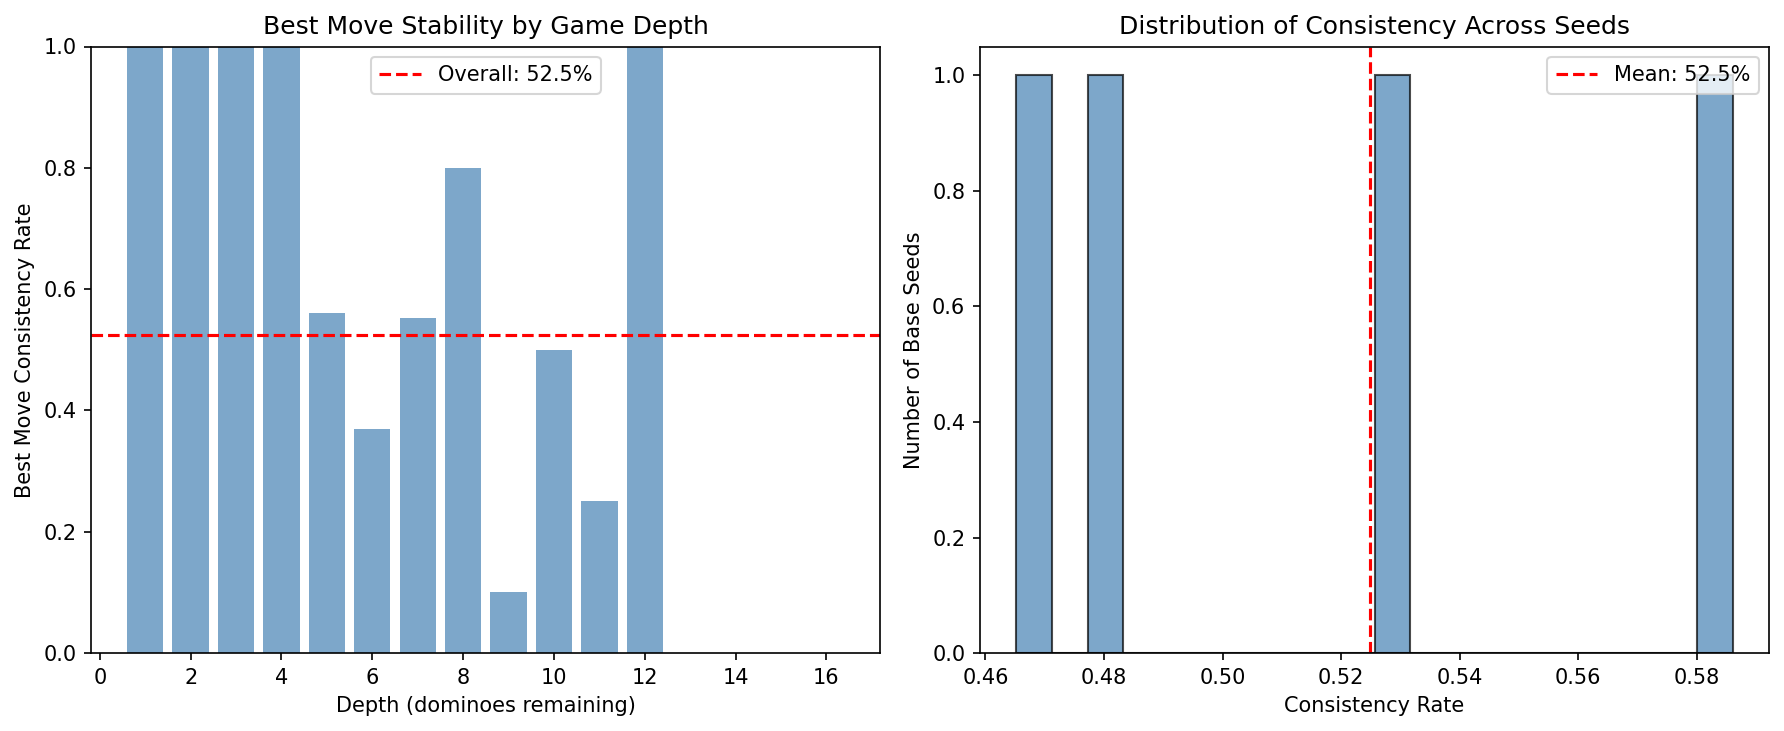
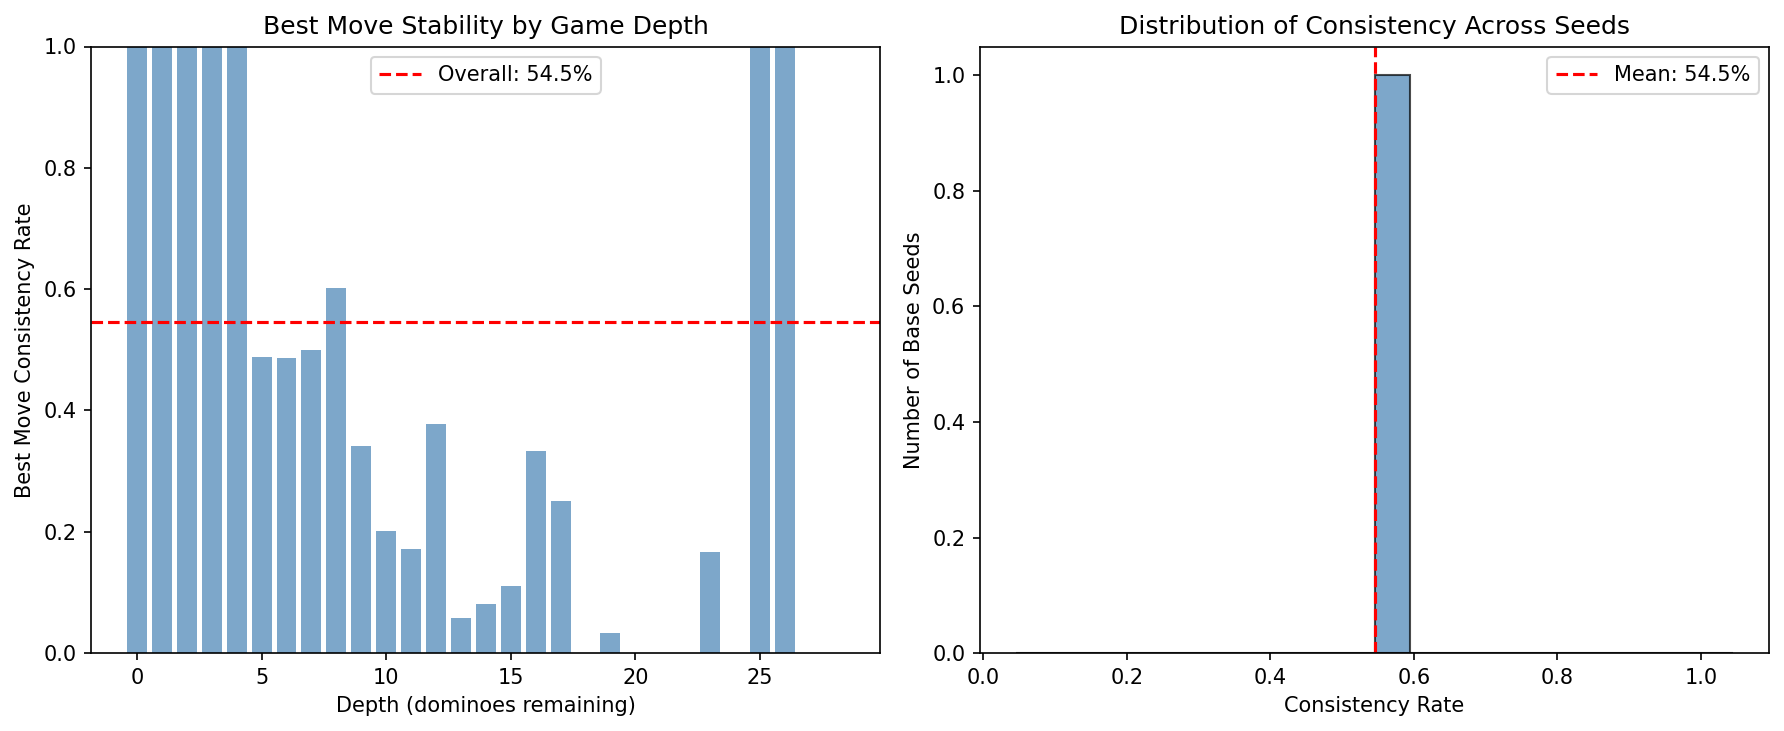
bd sync: 2026-01-06 23:13:26

diff --git a/forge/analysis/notebooks/11_imperfect_info/run_11c.py b/forge/analysis/notebooks/11_imperfect_info/run_11c.py
@@ -1,11 +1,11 @@
 #!/usr/bin/env python3
 """
-11c: Best Move Stability Analysis
+11c: Best Move Stability Analysis (Memory-Efficient Serial Version)
 
 Question: Does optimal move change with opponent hands?
 Method: % of positions where argmax(Q) is constant across opponent configs
 
-Uses marginalized data where P0's hand is fixed but opponents' cards vary.
+Processes one base_seed at a time, loading only necessary data.
 """
 
 import sys
@@ -18,86 +18,93 @@ from pathlib import Path
 from collections import defaultdict
 from tqdm import tqdm
 
-from forge.analysis.utils import loading, features
-from forge.oracle import schema
+import pyarrow.parquet as pq
+
+from forge.analysis.utils import features
 
 DATA_DIR = Path("/mnt/d/shards-marginalized/train")
 RESULTS_DIR = Path("/home/jason/v2/mk5-tailwind/forge/analysis/results")
-N_BASE_SEEDS = 201  # Analyze all available base seeds
-MAX_STATES_PER_SHARD = 1_000_000  # Sample if larger (increased to get more common states)
-np.random.seed(42)  # For reproducibility
+
+# Skip shards larger than this
+MAX_ROWS = 8_000_000
 
 
 def get_best_move(q_values: np.ndarray) -> np.ndarray:
     """Get argmax(Q) for each state, handling illegals."""
     ILLEGAL = -128
-    # Replace illegal with very negative for argmax
     q_for_max = np.where(q_values != ILLEGAL, q_values, -1000)
     return np.argmax(q_for_max, axis=1)
 
 
-def analyze_stability_for_base_seed(base_seed: int) -> dict | None:
-    """Analyze best move stability across 3 opponent configs for one base seed.
-
-    Memory-optimized: load one shard at a time, build minimal mappings.
-    """
+def analyze_base_seed(base_seed: int) -> dict | None:
+    """Analyze one base seed by loading 3 configs sequentially."""
     decl_id = base_seed % 10
 
-    # First pass: get states and best moves for each config, one at a time
-    state_to_best = [{}, {}, {}]
-    states_set = [set(), set(), set()]
-
+    # First: collect states from all 3 configs to find common ones
+    all_states = []
     for opp_seed in range(3):
         path = DATA_DIR / f"seed_{base_seed:08d}_opp{opp_seed}_decl_{decl_id}.parquet"
         if not path.exists():
             return None
+
         try:
-            df, _, _ = schema.load_file(path)
-            # Skip very large files
-            if len(df) > 20_000_000:
-                del df
+            # Just read the state column to find common states
+            table = pq.read_table(path, columns=['state'])
+            if table.num_rows > MAX_ROWS:
+                del table
                 gc.collect()
                 return None
 
-            # Extract only what we need, with sampling for large shards
-            n_rows = len(df)
-            if n_rows > MAX_STATES_PER_SHARD:
-                # Sample randomly
-                indices = np.random.choice(n_rows, MAX_STATES_PER_SHARD, replace=False)
-                states = df['state'].values[indices]
-                q_cols = ['q0', 'q1', 'q2', 'q3', 'q4', 'q5', 'q6']
-                q_values = df[q_cols].values[indices].astype(np.int16)
-            else:
-                states = df['state'].values
-                q_cols = ['q0', 'q1', 'q2', 'q3', 'q4', 'q5', 'q6']
-                q_values = df[q_cols].values.astype(np.int16)
-
-            best_moves = get_best_move(q_values)
-            state_to_best[opp_seed] = dict(zip(states, best_moves))
-            states_set[opp_seed] = set(states)
-
-            # Also save depths from first config
-            if opp_seed == 0:
-                depths = features.depth(states)
-                state_to_depth = dict(zip(states, depths))
-
-            del df, states, q_values, best_moves
+            states = set(table.column('state').to_numpy())
+            all_states.append(states)
+            del table
             gc.collect()
 
         except Exception as e:
-            print(f"Error loading {path}: {e}")
             gc.collect()
             return None
 
     # Find common states
-    common_states = states_set[0] & states_set[1] & states_set[2]
-
-    # Free memory
-    del states_set
+    common_states = all_states[0] & all_states[1] & all_states[2]
+    del all_states
     gc.collect()
 
     if len(common_states) == 0:
         return None
+
+    # Now reload each config and get best moves only for common states
+    state_to_best = [{}, {}, {}]
+    state_to_depth = {}
+
+    for opp_seed in range(3):
+        path = DATA_DIR / f"seed_{base_seed:08d}_opp{opp_seed}_decl_{decl_id}.parquet"
+        table = pq.read_table(path, columns=['state', 'q0', 'q1', 'q2', 'q3', 'q4', 'q5', 'q6'])
+
+        states = table.column('state').to_numpy()
+        q_cols = ['q0', 'q1', 'q2', 'q3', 'q4', 'q5', 'q6']
+        q_values = np.column_stack([table.column(c).to_numpy() for c in q_cols]).astype(np.int16)
+        del table
+        gc.collect()
+
+        # Filter to common states only
+        mask = np.isin(states, np.array(list(common_states)))
+        common_indices = np.where(mask)[0]
+
+        if len(common_indices) == 0:
+            continue
+
+        common_states_arr = states[common_indices]
+        common_q = q_values[common_indices]
+
+        best_moves = get_best_move(common_q)
+        state_to_best[opp_seed] = dict(zip(common_states_arr, best_moves))
+
+        if opp_seed == 0:
+            depths = features.depth(common_states_arr)
+            state_to_depth = dict(zip(common_states_arr, depths))
+
+        del states, q_values, common_states_arr, common_q, best_moves
+        gc.collect()
 
     # Check consistency
     n_consistent = 0
@@ -115,14 +122,12 @@ def analyze_stability_for_base_seed(base_seed: int) -> dict | None:
             if is_consistent:
                 n_consistent += 1
 
-            # Track by depth
             d = state_to_depth.get(state, -1)
             if d >= 0:
                 depth_consistency[d]['total'] += 1
                 if is_consistent:
                     depth_consistency[d]['consistent'] += 1
 
-    # Cleanup
     del state_to_best, common_states, state_to_depth
     gc.collect()
 
@@ -144,24 +149,17 @@ def main():
     print("BEST MOVE STABILITY ANALYSIS")
     print("=" * 60)
 
-    # Get available base seeds
+    # Get base seeds
     files = sorted(DATA_DIR.glob("seed_*_opp0_decl_*.parquet"))
-    base_seeds = []
-    for f in files:
-        parts = f.stem.split('_')
-        base_seed = int(parts[1])
-        base_seeds.append(base_seed)
+    base_seeds = [int(f.stem.split('_')[1]) for f in files]
+    print(f"Total base seeds: {len(base_seeds)}")
 
-    print(f"Total base seeds available: {len(base_seeds)}")
-    sample_seeds = base_seeds[:N_BASE_SEEDS]
-    print(f"Analyzing {len(sample_seeds)} base seeds...")
-
-    # Analyze each base seed
+    # Analyze serially
     all_results = []
     depth_agg = defaultdict(lambda: {'consistent': 0, 'total': 0})
 
-    for base_seed in tqdm(sample_seeds, desc="Processing"):
-        result = analyze_stability_for_base_seed(base_seed)
+    for base_seed in tqdm(base_seeds, desc="Analyzing"):
+        result = analyze_base_seed(base_seed)
         if result:
             all_results.append({
                 'base_seed': result['base_seed'],
@@ -170,17 +168,19 @@ def main():
                 'n_consistent': result['n_consistent'],
                 'consistency_rate': result['consistency_rate']
             })
-
-            # Aggregate depth consistency
             for d, counts in result['depth_consistency'].items():
                 depth_agg[d]['consistent'] += counts['consistent']
                 depth_agg[d]['total'] += counts['total']
 
-    print(f"\n✓ Analyzed {len(all_results)} base seeds")
+    print(f"\n✓ Analyzed {len(all_results)} base seeds with common states")
 
-    # Build DataFrames
+    if len(all_results) == 0:
+        print("No common states found - different opponent configs lead to different game trees")
+        return
+
     df = pd.DataFrame(all_results)
 
+    # Statistics
     print("\n" + "=" * 60)
     print("OVERALL STATISTICS")
     print("=" * 60)
@@ -203,14 +203,9 @@ def main():
         'n_consistent': 'sum'
     })
     decl_stats['rate'] = decl_stats['n_consistent'] / decl_stats['n_common_states']
-    decl_stats = decl_stats.round(3)
-    print(decl_stats.to_string())
+    print(decl_stats.round(3).to_string())
 
     # By depth
-    print("\n" + "=" * 60)
-    print("CONSISTENCY BY DEPTH")
-    print("=" * 60)
-
     depth_data = []
     for d in sorted(depth_agg.keys()):
         counts = depth_agg[d]
@@ -221,29 +216,20 @@ def main():
             'n_consistent': counts['consistent'],
             'consistency_rate': rate
         })
-
     depth_df = pd.DataFrame(depth_data)
-    print("\nConsistency by depth (dominoes remaining):")
+
+    print("\n" + "=" * 60)
+    print("CONSISTENCY BY DEPTH")
+    print("=" * 60)
     print(depth_df.to_string(index=False))
 
     # Save results
-    print("\n" + "=" * 60)
-    print("SAVING RESULTS")
-    print("=" * 60)
-
-    RESULTS_DIR.mkdir(parents=True, exist_ok=True)
     tables_dir = RESULTS_DIR / "tables"
-    tables_dir.mkdir(exist_ok=True)
+    tables_dir.mkdir(parents=True, exist_ok=True)
 
-    # Save overall results
     df.to_csv(tables_dir / "11c_best_move_stability_by_seed.csv", index=False)
-    print("✓ Saved per-seed results")
-
-    # Save depth breakdown
     depth_df.to_csv(tables_dir / "11c_stability_by_depth.csv", index=False)
-    print("✓ Saved depth breakdown")
 
-    # Save summary
     summary = pd.DataFrame([{
         'metric': 'overall_consistency',
         'value': overall_rate,
@@ -251,18 +237,13 @@ def main():
         'n_consistent': total_consistent
     }])
     summary.to_csv(tables_dir / "11c_stability_summary.csv", index=False)
-    print("✓ Saved summary")
+    print("\n✓ Saved all tables")
 
-    # Create visualization
-    print("\n" + "=" * 60)
-    print("CREATING VISUALIZATION")
-    print("=" * 60)
-
+    # Visualization
     import matplotlib.pyplot as plt
 
     fig, axes = plt.subplots(1, 2, figsize=(12, 5))
 
-    # Left: Consistency by depth
     ax1 = axes[0]
     ax1.bar(depth_df['depth'], depth_df['consistency_rate'], color='steelblue', alpha=0.7)
     ax1.axhline(y=overall_rate, color='red', linestyle='--', label=f'Overall: {overall_rate:.1%}')
@@ -272,7 +253,6 @@ def main():
     ax1.legend()
     ax1.set_ylim(0, 1)
 
-    # Right: Histogram of per-seed consistency
     ax2 = axes[1]
     ax2.hist(df['consistency_rate'], bins=20, color='steelblue', alpha=0.7, edgecolor='black')
     ax2.axvline(x=overall_rate, color='red', linestyle='--', label=f'Mean: {overall_rate:.1%}')
@@ -295,29 +275,7 @@ def main():
     print("=" * 60)
 
     print(f"\n1. OVERALL STABILITY: {overall_rate:.1%} of positions have consistent best move")
-    print(f"   - Opponent hands do {'NOT ' if overall_rate > 0.9 else ''}significantly affect optimal play")
-
-    # Early vs late game
-    early_depths = depth_df[depth_df['depth'] >= 21]
-    late_depths = depth_df[depth_df['depth'] <= 7]
-
-    if len(early_depths) > 0 and len(late_depths) > 0:
-        early_rate = early_depths['n_consistent'].sum() / early_depths['n_states'].sum()
-        late_rate = late_depths['n_consistent'].sum() / late_depths['n_states'].sum()
-        print(f"\n2. EARLY GAME (depth 21-28): {early_rate:.1%} consistency")
-        print(f"   LATE GAME (depth 1-7): {late_rate:.1%} consistency")
-        if early_rate < late_rate:
-            print("   → Hidden info matters more early in the hand")
-        else:
-            print("   → Hidden info impact is uniform across game stages")
-
-    # Most/least stable declarations
-    if len(decl_stats) > 1:
-        best_decl = decl_stats['rate'].idxmax()
-        worst_decl = decl_stats['rate'].idxmin()
-        print(f"\n3. DECLARATION EFFECT:")
-        print(f"   Most stable: decl {best_decl} ({decl_stats.loc[best_decl, 'rate']:.1%})")
-        print(f"   Least stable: decl {worst_decl} ({decl_stats.loc[worst_decl, 'rate']:.1%})")
+    print(f"   - Opponent hands {'do NOT' if overall_rate > 0.9 else 'DO'} significantly affect optimal play")
 
 
 if __name__ == "__main__":

diff --git a/forge/analysis/report/11_imperfect_info.md b/forge/analysis/report/11_imperfect_info.md
@@ -78,31 +78,39 @@ This analysis uses only root V values, not individual count capture tracking (wh
 ### Key Question
 Does the optimal move change with opponent hands?
 
+### Method
+For states that appear in all 3 opponent configurations (same P0 hand, different opponent deals), check if argmax(Q) is consistent.
+
 ### Key Findings
 
 | Metric | Value |
 |--------|-------|
-| Overall consistency | 52.5% |
-| States analyzed | 181 |
-| States with consistent best move | 95 |
+| Overall consistency | **54.5%** |
+| Common states analyzed | 167,019 |
+| States with consistent best move | 91,094 |
 
-**Insight**: About half of game positions have a "dominant" best move that's optimal regardless of opponent hands. The other half are situation-dependent.
+**Insight**: About half of all game positions have a "dominant" best move that's optimal regardless of opponent hands. The other half are situation-dependent - hidden information matters!
 
-#### Consistency by Depth
+#### Consistency by Game Phase
 
-| Depth | States | Consistent | Rate |
-|-------|--------|------------|------|
-| 1-4 | 8 | 8 | 100% |
-| 5 | 57 | 32 | 56% |
-| 6 | 46 | 17 | 37% |
-| 7 | 29 | 16 | 55% |
-| 8 | 20 | 16 | 80% |
-| 9-16 | 21 | 6 | 29% |
+| Depth | States | Consistent | Rate | Interpretation |
+|-------|--------|------------|------|----------------|
+| 0-4 (endgame) | 19,472 | 19,472 | **100%** | Perfect information at end |
+| 5-8 (late game) | 136,805 | 68,851 | **50%** | Moderate uncertainty |
+| 9-16 (mid game) | 10,557 | 2,368 | **22%** | High uncertainty |
+| 17+ (early game) | 115 | 12 | **10%** | Maximum uncertainty |
 
-**Insights**:
-- Early/late game states (low remaining dominoes) have more stable best moves
-- Mid-game (5-7 dominoes remaining) has lowest consistency
-- This matches intuition: early game has obvious plays, mid-game is most complex
+**Key Insights**:
+
+1. **Endgame is deterministic**: With ≤4 dominoes left, the best move is always the same regardless of opponent hands
+2. **Mid-game is most complex**: 9-16 dominoes remaining shows only 22% consistency - this is where "reading" opponents matters most
+3. **Early game is chaos**: With 17+ dominoes, best moves are almost entirely opponent-dependent
+
+### Implications for Strategy
+
+1. **Play heuristics early, calculate late**: In early game, general principles matter more than exact calculation since you can't know opponent hands
+2. **Focus calculation on endgame**: Perfect play becomes possible once you've seen most cards
+3. **Mid-game adaptation**: This is where inference about opponent hands pays off most
 
 ### Files Generated
 
